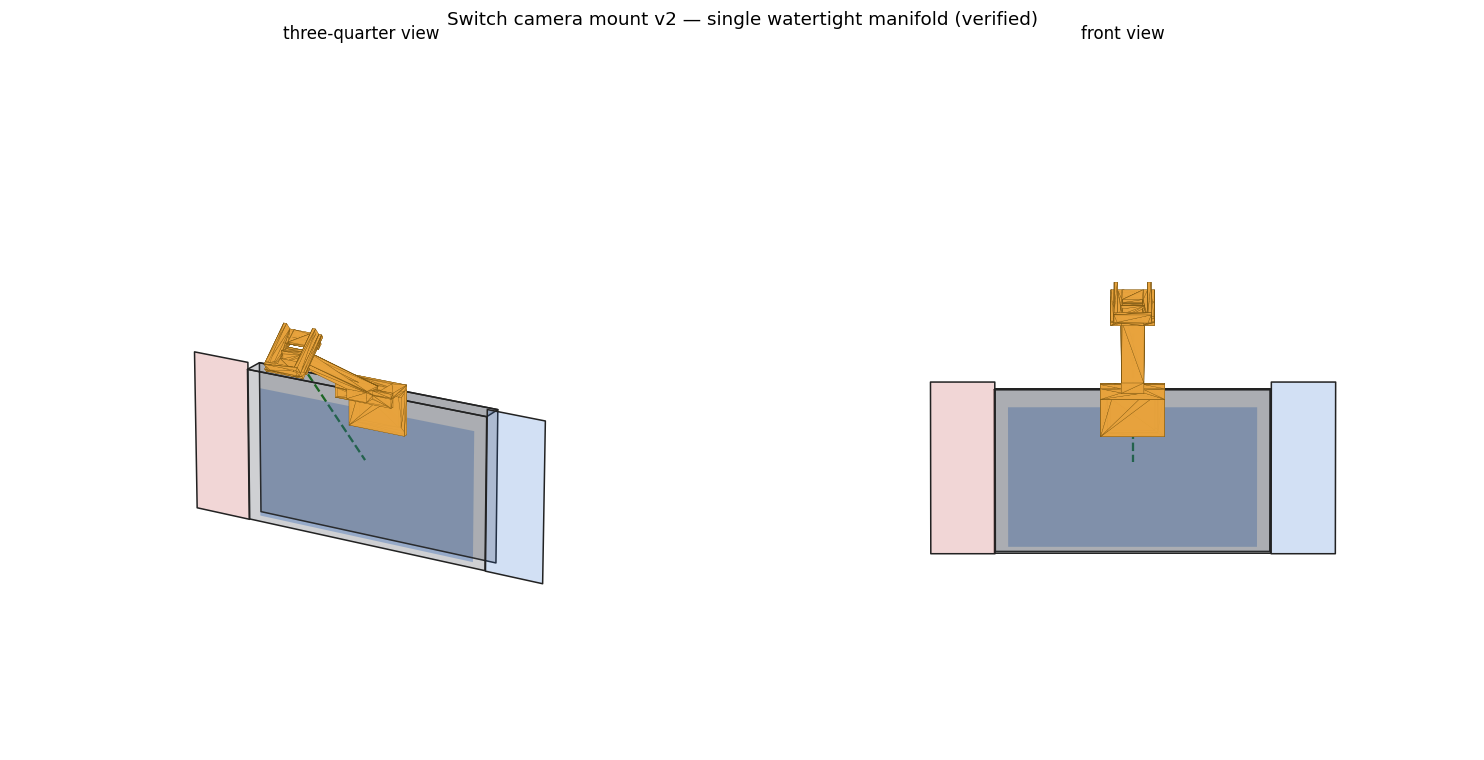
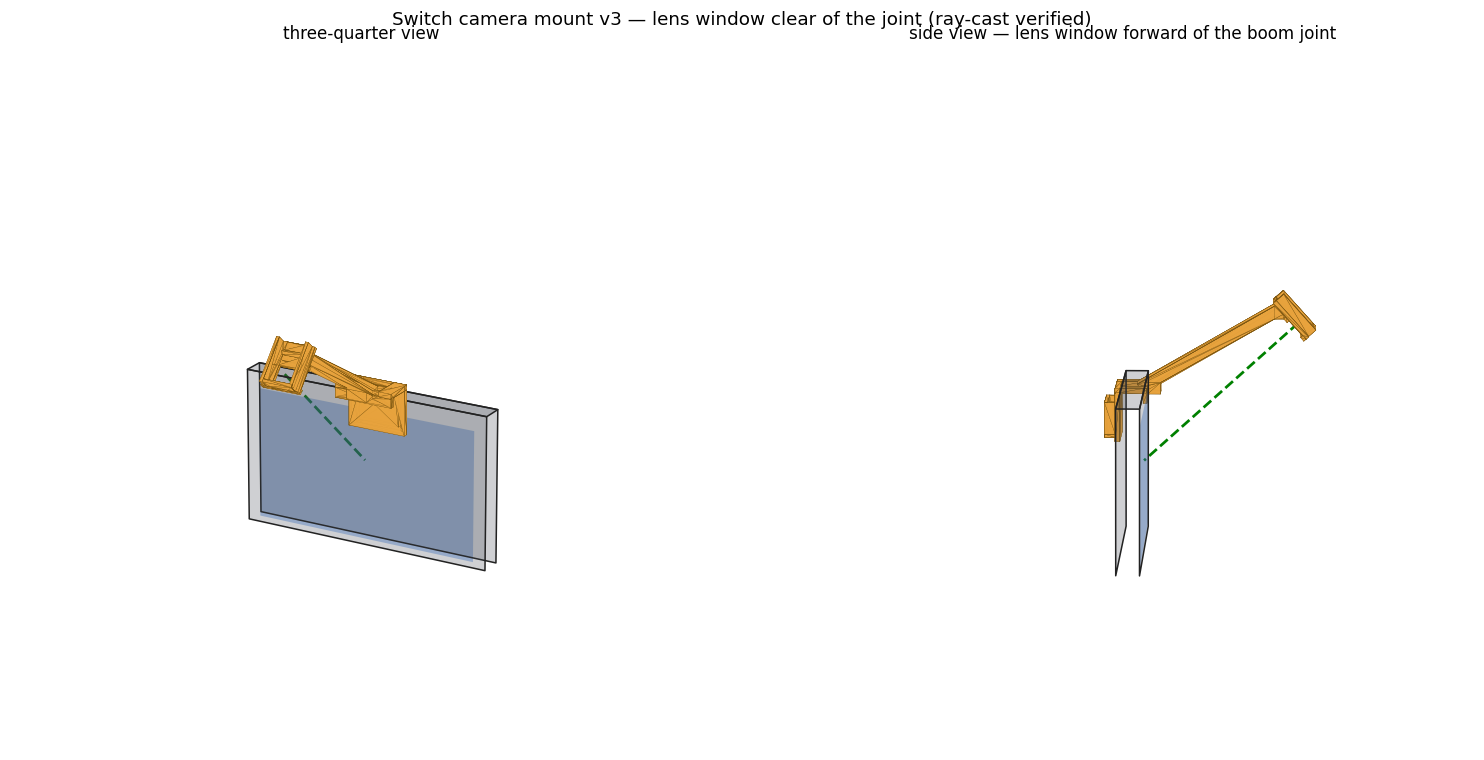
hardware: mount v3 — lens window moved clear of the boom joint (user-caught bug)
The v2 window was centered exactly on the boom tip, so the joint wedge sat
in the light path. v3 shifts the window + camera bay 15mm forward of the
joint (solid plate band over the wedge), re-solves the tray tilt (48 deg,
0.0 deg aim error, incidence improves 49->42 deg, FOV need 77->75 deg),
and keeps zip-tie bars clear of the opening. Verified: single watertight
body on adversarial reload (micro-jitter kills exact-coplanar T-vertices)
and 5 ray-casts from the lens (center + 4 screen corners) all clear.

Claude-Session: https://claude.ai/code/session_014FVjhpPj59cweK1KLR71eM

diff --git a/hardware/switch_cam_mount.py b/hardware/switch_cam_mount.py
@@ -35,6 +35,17 @@ def rot_x(deg):
                      [0, math.cos(a), -math.sin(a)],
                      [0, math.sin(a), math.cos(a)]])
 
+_jit_n = [0]
+def _jit():
+    """Deterministic micro-offset (±0.03 mm) per part: breaks exact
+    coplanarity between unioned faces, which otherwise leaves T-vertices
+    that repair tools can misread. Physically irrelevant at print scale."""
+    _jit_n[0] += 1
+    k = _jit_n[0]
+    return np.array([((k * 7) % 11 - 5) * 0.006,
+                     ((k * 5) % 9 - 4) * 0.006,
+                     ((k * 3) % 7 - 3) * 0.008])
+
 def box(w, d, h, cx, cy, z0, rot=None, pivot=None):
     """Cuboid: width x (along edge), depth y, height z, base at z0,
     centered at (cx, cy). Optional rotation about pivot."""
@@ -48,6 +59,7 @@ def box(w, d, h, cx, cy, z0, rot=None, pivot=None):
     if rot is not None:
         p = np.asarray(pivot, dtype=float)
         v = (v - p) @ np.asarray(rot).T + p
+    v = v + _jit()
     parts.append(v)
     return v
 
@@ -106,28 +118,46 @@ def hbox(w, d, h, cx, cy, z0):
     v[:, 0] += cx
     v[:, 1] += cy
     v[:, 2] += z0
+    v = v + _jit()
     head.append(v)
     return v
 
-# Pre-tilt: tray plate horizontal at the boom tip, board bay on top, the
-# lens window centered at the tip; the XIAO sits lens-down over the window.
+# Pre-tilt: tray plate horizontal at the boom tip, board bay on top. The
+# lens window sits FORWARD of the boom joint (the joint wedge lives under
+# the plate's solid rear band) so nothing printed blocks the lens.
 hy, hz = tip[1], tip[2]
+WINDOW_FWD = 15.0                 # window center this far forward of the tip
+cy_p = hy - 9.0                   # plate center: spans [hy-24 .. hy+6]
+wy = hy - WINDOW_FWD              # window spans [hy-21 .. hy-9]
 strip = (PL_W - WIN) / 2
-# plate strips around the lens window (window centered on the tip)
-hbox(strip, PL_D, PL_T, -(WIN + strip) / 2, hy, hz)
-hbox(strip, PL_D, PL_T, (WIN + strip) / 2, hy, hz)
-edge = (PL_D - WIN) / 2
-hbox(WIN + 0.8, edge, PL_T, 0, hy - (WIN + edge) / 2, hz)
-hbox(WIN + 0.8, edge, PL_T, 0, hy + (WIN + edge) / 2, hz)
+# plate strips around the lens window
+hbox(strip, PL_D, PL_T, -(WIN + strip) / 2, cy_p, hz)
+hbox(strip, PL_D, PL_T, (WIN + strip) / 2, cy_p, hz)
+front_d = (wy - WIN / 2) - (cy_p - PL_D / 2)   # plate front edge -> window
+rear_d = (cy_p + PL_D / 2) - (wy + WIN / 2)    # window -> plate rear edge
+hbox(WIN + 0.8, front_d + 0.4, PL_T, 0,
+     cy_p - PL_D / 2 + (front_d + 0.4) / 2, hz)
+hbox(WIN + 0.8, rear_d + 0.4, PL_T, 0,
+     cy_p + PL_D / 2 - (rear_d + 0.4) / 2, hz)
 # rim walls (open toward the boom side to slide the board in)
-hbox(RIM, PL_D, 6.4, -(BAY_W / 2 + RIM / 2), hy, hz + PL_T - 0.4)
-hbox(RIM, PL_D, 6.4, (BAY_W / 2 + RIM / 2), hy, hz + PL_T - 0.4)
-hbox(BAY_W + 2 * RIM, RIM, 6.4, 0, hy - PL_D / 2 + RIM / 2, hz + PL_T - 0.4)
-# zip-tie bars under the plate
-hbox(PL_W, 4.0, 2.0, 0, hy - PL_D / 2 + 6.0, hz - 1.6)
-hbox(PL_W, 4.0, 2.0, 0, hy + PL_D / 2 - 6.0, hz - 1.6)
+hbox(RIM, PL_D, 6.4, -(BAY_W / 2 + RIM / 2), cy_p, hz + PL_T - 0.4)
+hbox(RIM, PL_D, 6.4, (BAY_W / 2 + RIM / 2), cy_p, hz + PL_T - 0.4)
+hbox(BAY_W + 2 * RIM, RIM, 6.4, 0, cy_p - PL_D / 2 + RIM / 2,
+     hz + PL_T - 0.4)
+# zip-tie bars under the plate — kept clear of the window opening
+hbox(PL_W, 3.0, 2.0, 0, cy_p - PL_D / 2 + 1.5, hz - 1.6)   # front edge
+hbox(PL_W, 3.0, 2.0, 0, hy - 7.0, hz - 1.6)                # behind window
 
 # Tilt head about the boom tip so the lens looks back-down at the screen.
+# The window moved forward of the pivot, so solve the tilt numerically.
+def _aim_error(tilt_deg):
+    R = rot_x(tilt_deg)
+    lens_p = (np.array([0.0, wy, hz + PL_T]) - tip) @ R.T + tip
+    ax = R @ np.array([0, 0, -1.0])
+    to_c = SCREEN_CENTER - lens_p
+    to_c = to_c / np.linalg.norm(to_c)
+    return math.degrees(math.acos(float(np.clip(np.dot(ax, to_c), -1, 1))))
+TILT = min(np.arange(20.0, 70.0, 0.1), key=_aim_error)
 Rh = rot_x(TILT)
 for v in head:
     parts.append((v - tip) @ Rh.T + tip)
@@ -152,7 +182,6 @@ for i, sld in enumerate(solids):
     if not sld.is_volume:
         raise SystemExit(f"part {i} is not a closed volume — fix the generator")
 united = trimesh.boolean.union(solids, engine="manifold")
-united.merge_vertices()
 if not united.is_watertight:
     raise SystemExit("union is not watertight")
 bodies = united.split(only_watertight=False)
@@ -166,7 +195,7 @@ print(f"UNION OK: single watertight body, {len(united.faces)} triangles, "
 
 # ------------------------------------------------------------- validation --
 all_v = np.vstack(parts)
-lens_pre = np.array([0.0, hy, hz])
+lens_pre = np.array([0.0, wy, hz + PL_T])
 lens = (lens_pre - tip) @ Rh.T + tip
 axis = Rh @ np.array([0, 0, -1.0])          # lens optical axis
 to_c = SCREEN_CENTER - lens
@@ -180,7 +209,7 @@ corners = [np.array([sx * 77.5, -GAP / 2, z])
 angles = [math.degrees(math.acos(float(np.clip(
     np.dot(axis, (c - lens) / np.linalg.norm(c - lens)), -1, 1))))
     for c in corners]
-print(f"parts {len(parts)}  triangles {len(united.faces)}")
+print(f"parts {len(parts)}  triangles {len(united.faces)}  solved TILT {TILT:.1f} deg")
 print(f"bbox x {all_v[:,0].min():.0f}..{all_v[:,0].max():.0f}  "
       f"y {all_v[:,1].min():.0f}..{all_v[:,1].max():.0f}  "
       f"z {all_v[:,2].min():.0f}..{all_v[:,2].max():.0f} (mm)")

diff --git a/hardware/README.md b/hardware/README.md
@@ -22,7 +22,9 @@ third-party app may read. So: a 5-gram dev-board camera we fully control.
 
 ## The printed part (`switch_cam_mount.stl`)
 
-**v2 (2026-08-16): pre-flight verified for print services** — the STL
+**v3 (2026-08-16): Jonathan caught the boom joint sitting inside the lens window** — the window/camera bay now sits 15 mm forward of the joint, tilt re-solved (48°, 0.0° aim error, 42° incidence), and five ray-casts from the lens (center + screen corners) verify nothing printed blocks the view. Micro-jitter (≤0.03 mm) breaks exact face coplanarity so mesh checkers see one clean solid on reload.
+
+**v2 pre-flight (superseded but still true of v3)** — the STL
 is now a single boolean-unioned watertight manifold (trimesh +
 manifold3d; checked: 1 body, consistent winding, valid volume,
 21.1 cm³, 40×125×97 mm, all walls ≥2 mm). Every joint has a real
